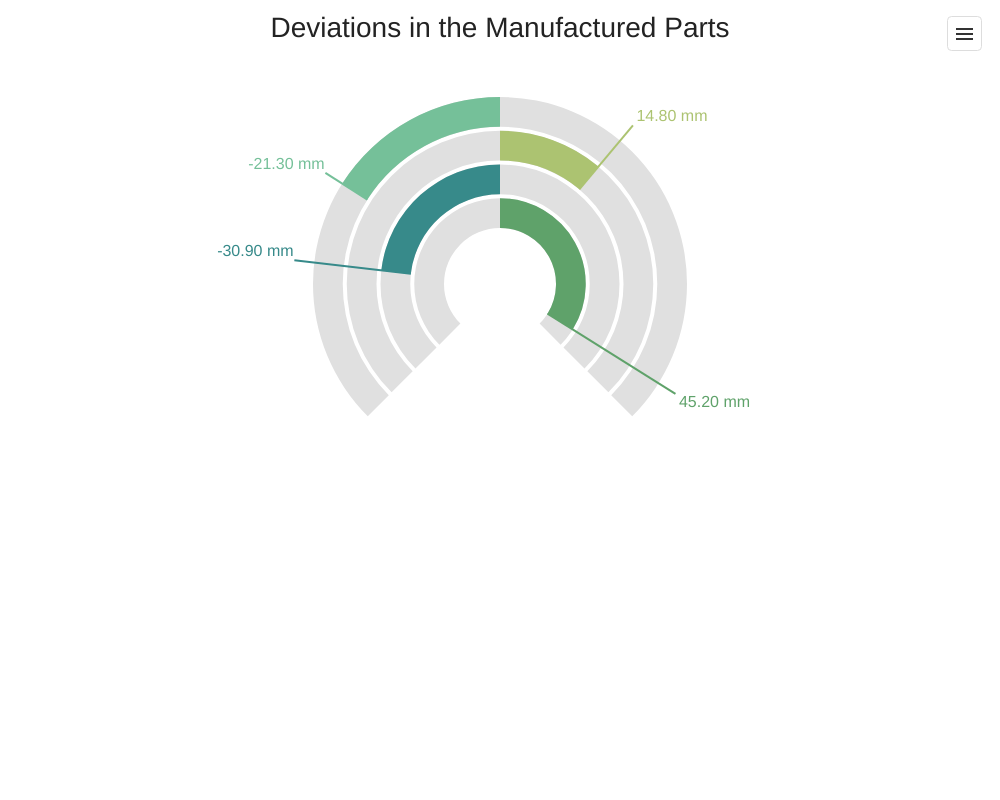
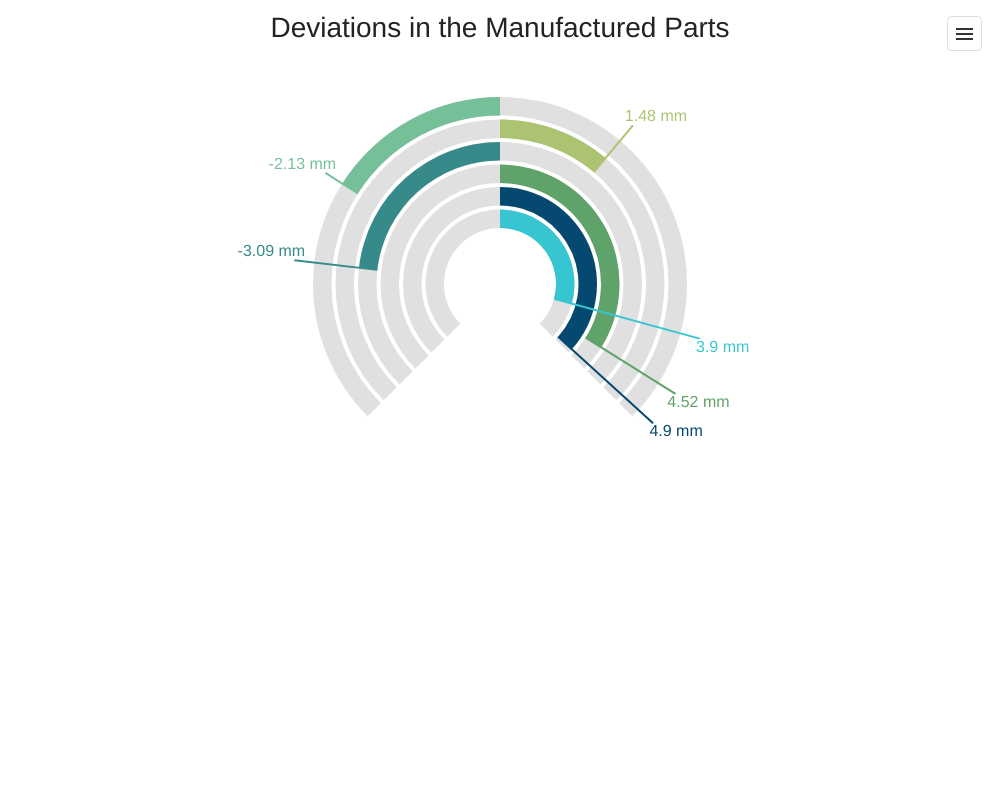
BarGauge / Palette: Scale down data units (#27392)

diff --git a/apps/demos/Demos/Gauges/Palette/Vue/App.vue b/apps/demos/Demos/Gauges/Palette/Vue/App.vue
@@ -2,14 +2,14 @@
   <div>
     <DxBarGauge
       id="gauge"
-      :start-value="startValue"
-      :end-value="50"
+      :start-value="-5"
+      :end-value="5"
       :base-value="0"
       :values="values"
       palette="Ocean"
     >
       <DxLabel
-        :customize-text="customizeText"
+        format="##.## mm;-##.## mm"
       />
       <DxExport
         :enabled="true"
@@ -29,9 +29,7 @@ import {
   DxBarGauge, DxLabel, DxExport, DxTitle, DxFont,
 } from 'devextreme-vue/bar-gauge';
 
-const startValue = -50;
-const values = [-21.3, 14.8, -30.9, 45.2];
-const customizeText = ({ valueText }) => `${valueText} mm`;
+const values = [-2.13, 1.48, -3.09, 4.52, 4.9, 3.9];
 </script>
 <style scoped>
 #gauge {

diff --git a/apps/demos/Demos/Gauges/Palette/React/App.tsx b/apps/demos/Demos/Gauges/Palette/React/App.tsx
@@ -3,23 +3,19 @@ import {
   BarGauge, Label, Export, Title, Font,
 } from 'devextreme-react/bar-gauge';
 
-const values = [-21.3, 14.8, -30.9, 45.2];
-
-function customizeText({ valueText }) {
-  return `${valueText} mm`;
-}
+const values = [-2.13, 1.48, -3.09, 4.52, 4.9, 3.9];
 
 function App() {
   return (
     <BarGauge
       id="gauge"
-      startValue={-50}
-      endValue={50}
+      startValue={-5}
+      endValue={5}
       baseValue={0}
       values={values}
       palette="Ocean"
     >
-      <Label customizeText={customizeText} />
+      <Label format="##.## mm;-##.## mm" />
       <Export enabled={true} />
       <Title text="Deviations in the Manufactured Parts">
         <Font size={28} />

diff --git a/apps/demos/Demos/Gauges/Palette/ReactJs/App.js b/apps/demos/Demos/Gauges/Palette/ReactJs/App.js
@@ -3,21 +3,18 @@ import {
   BarGauge, Label, Export, Title, Font,
 } from 'devextreme-react/bar-gauge';
 
-const values = [-21.3, 14.8, -30.9, 45.2];
-function customizeText({ valueText }) {
-  return `${valueText} mm`;
-}
+const values = [-2.13, 1.48, -3.09, 4.52, 4.9, 3.9];
 function App() {
   return (
     <BarGauge
       id="gauge"
-      startValue={-50}
-      endValue={50}
+      startValue={-5}
+      endValue={5}
       baseValue={0}
       values={values}
       palette="Ocean"
     >
-      <Label customizeText={customizeText} />
+      <Label format="##.## mm;-##.## mm" />
       <Export enabled={true} />
       <Title text="Deviations in the Manufactured Parts">
         <Font size={28} />

diff --git a/apps/demos/Demos/Gauges/Palette/Angular/app/app.component.html b/apps/demos/Demos/Gauges/Palette/Angular/app/app.component.html
@@ -1,12 +1,12 @@
 <dx-bar-gauge
   id="gauge"
-  [startValue]="-50"
-  [endValue]="50"
+  [startValue]="-5"
+  [endValue]="5"
   [baseValue]="0"
-  [values]="[-21.3, 14.8, -30.9, 45.2]"
+  [values]="[-2.13, 1.48, -3.09, 4.52, 4.9, 3.9]"
   palette="ocean"
 >
-  <dxo-label [customizeText]="customizeText"></dxo-label>
+  <dxo-label format="##.## mm;-##.## mm"></dxo-label>
   <dxo-export [enabled]="true"></dxo-export>
   <dxo-title text="Deviations in the Manufactured Parts">
     <dxo-font [size]="28"></dxo-font>

diff --git a/apps/demos/Demos/Gauges/Palette/jQuery/index.js b/apps/demos/Demos/Gauges/Palette/jQuery/index.js
@@ -1,13 +1,11 @@
 $(() => {
   $('#gauge').dxBarGauge({
-    startValue: -50,
-    endValue: 50,
+    startValue: -5,
+    endValue: 5,
     baseValue: 0,
-    values: [-21.3, 14.8, -30.9, 45.2],
+    values: [-2.13, 1.48, -3.09, 4.52, 4.9, 3.9],
     label: {
-      customizeText(arg) {
-        return `${arg.valueText} mm`;
-      },
+      format: "##.## mm;-##.## mm",
     },
     export: {
       enabled: true,

diff --git a/apps/demos/Demos/Gauges/Palette/Angular/app/app.component.ts b/apps/demos/Demos/Gauges/Palette/Angular/app/app.component.ts
@@ -15,9 +15,6 @@ if (!/localhost/.test(document.location.host)) {
 })
 
 export class AppComponent {
-  customizeText(arg) {
-    return `${arg.valueText} mm`;
-  }
 }
 
 @NgModule({
